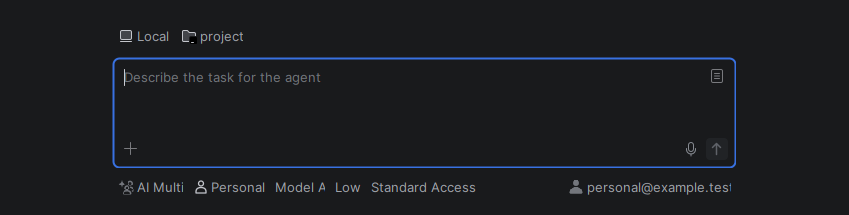
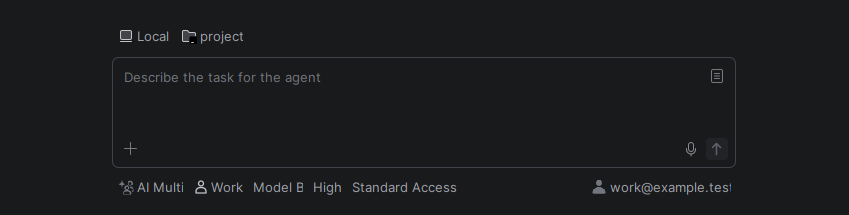
Show Personal and Work screenshots and describe Air account information

Changed region(s): [[0.1225, 0.2512, 0.8881, 0.7814], [0.245, 0.8372, 0.5819, 0.893], [0.6737, 0.8372, 0.7656, 0.9209]]

diff --git a/docs/decisions.md b/docs/decisions.md
@@ -2,7 +2,7 @@
 
 ## 2026-10-18 - Describe personal model-list management
 
-The public description must explain that users can hide old or unused models and set a custom order, including placing their most-used model first. This documents existing profile model inclusion/order controls; configured filters and ordering remain policy over the bound agent's own catalog. No runtime or lifecycle behavior changes.
+The public description must explain that users can hide old or unused models and set a custom order, including placing their most-used model first. It must also mention Air's account information identifying the account used by the selected profile's agent. This documents existing profile model inclusion/order controls; configured filters and ordering remain policy over the bound agent's own catalog. No runtime or lifecycle behavior changes.
 
 
 ## 2026-10-18 - Recreate the public repository from a clean snapshot
@@ -19,7 +19,7 @@ The unused pre-profile home service and its unused mismatch helper had no caller
 
 ## 2026-10-18 - Short public README and illustrated quick start
 
-The user requests a brief, plain-language explanation of the plugin and a very short illustrated manual. Keep README focused on separate AI profiles/accounts, project Default Profile and switching chats. Preserve the previous extensive description in [the detailed guide](detailed-guide.md), including developer notes and compatibility limitations. Publish only visually reviewed native UI screenshots with synthetic data; unreviewed local screenshots remain excluded. This is a documentation change only: no runtime behavior, Marketplace metadata or deployment changes.
+The user requests a brief, plain-language explanation of the plugin and a very short illustrated manual. Keep README focused on separate AI profiles/accounts, project Default Profile and switching chats. Preserve the previous extensive description in [the detailed guide](detailed-guide.md), including developer notes and compatibility limitations. Publish only visually reviewed native UI screenshots with synthetic data; unreviewed local screenshots remain excluded. The user requests both Personal and Work in the settings illustration and Work selected in the chat illustration. This is a documentation change only: no runtime behavior, Marketplace metadata or deployment changes.
 
 
 ## 2026-10-18 ? Public repository and Marketplace identity

diff --git a/README.md b/README.md
@@ -9,6 +9,7 @@ Use personal and work AI profiles in IntelliJ IDEA's **AI Assistant** and **Air*
 - Profile switching inside a chat, or a new chat with another profile.
 - Optional model and reasoning defaults for each profile.
 - Your own model list: hide old or unused models and set a custom order, with your most-used model first.
+- Account information in Air, so you can see which account the selected profile's agent is using.
 
 ## Quick start
 
@@ -17,15 +18,15 @@ Requires **IntelliJ IDEA 2026.2 build 262.10968 or newer**, AI Assistant or Air,
 1. **Install the plugin ZIP:** Settings > Plugins > gear menu > Install Plugin from Disk.
 2. **Create a profile:** open Settings, search **AI Multi Profiles**, click **+**, name the profile and choose an installed agent. Click **Authorize…** to sign in. Optionally check **Default Profile**, then **Apply**. Repeat for another account.
 
-![Profile settings: name, agent, authorization and project default](docs/screenshots/profile-settings.png)
+![Personal and Work profiles in AI Multi Profiles settings](docs/screenshots/profile-settings.png)
 
 3. **Start chatting:** open AI Chat, select **AI Multi**, then choose your profile beside it.
 
-![AI Multi and the profile selector in Air's native composer](docs/screenshots/chat-profile.png)
+![Work profile and its account information in Air's native composer](docs/screenshots/chat-profile.png)
 
 4. **Switch when needed:** select another profile. In an existing chat, choose **Continue Current Chat** and how much context to share, or **Start a New Chat**. Switching a chat's profile keeps the project's Default Profile unchanged.
 
-*Screenshots use a test profile and example model. Available agents and models depend on your installation.*
+*Screenshots use synthetic Personal and Work profiles and example models. Available agents and models depend on your installation.*
 
 [Detailed guide and troubleshooting](docs/detailed-guide.md) | [Architecture](docs/native-client-architecture.md) | [Development decisions](docs/decisions.md)
 

diff --git a/docs/screenshots/README.md b/docs/screenshots/README.md
@@ -2,7 +2,7 @@
 
 These are real native plugin/client UI captures with synthetic profiles, not generated mockups. Images were visually reviewed before publication.
 
-- `profile-settings.png`: the plugin General settings tab, captured in the isolated layout75 preview with a synthetic Personal profile and installed-agent label Codex. Its controls match the current General tab. No account identity or authorization data is displayed.
-- `chat-profile.png`: the actual Air composer with AI Multi selected, captured in a separate documentation sandbox using synthetic Personal/example.test account and model fixtures. Only the composer viewport is rendered into the capture; primary IDE windows, project files and unrelated notifications are excluded.
+- `profile-settings.png`: the actual plugin General settings tab with synthetic Personal and Work profiles, Work selected and Personal marked as the project default. A local synthetic ACP agent named Codex is registered in the sandbox so agent availability is checked through the native client. No real account authorization is used.
+- `chat-profile.png`: the actual Air composer with AI Multi and Work selected, using the synthetic work@example.test identity and example model fixtures. Only the native composer component is rendered into the capture; primary IDE windows, project files and unrelated notifications are excluded.
 
 All other local screenshots remain excluded. Do not publish screenshots containing real account email, account IDs, tokens, private project content or authorization data.

diff --git a/docs/detailed-guide.md b/docs/detailed-guide.md
@@ -16,7 +16,7 @@ Refresh starts a separate ACP connection in a temporary clean home with account 
 
 Optional instructions can be entered as text or loaded from Markdown for the new session's first prompt. Codex profiles also offer an editor link to their native `AGENTS.override.md` / `AGENTS.md`. Codex account identity is discovered from the profile's actual `CODEX_HOME` and explicitly distinguished from verified login. See [implementation and verification](profile-presets.md).
 
-Independent IntelliJ Platform plugin for project defaults and switching ACP profiles within an AI Multi conversation.
+Independent IntelliJ Platform plugin for project defaults and switching ACP profiles within an AI Multi conversation. Air also shows account information for the selected profile, so you can check which account its agent is using.
 
 Development build **0.2.0-dev.12** preserves the original chat title during profile continuation and repairs old `AI_MULTI_HANDOFF:` titles when those chats open. Conversation saves retry transient Windows sharing violations; a persistent write failure preserves the committed history and the latest pending snapshot and reports the error without crashing the router.
 
